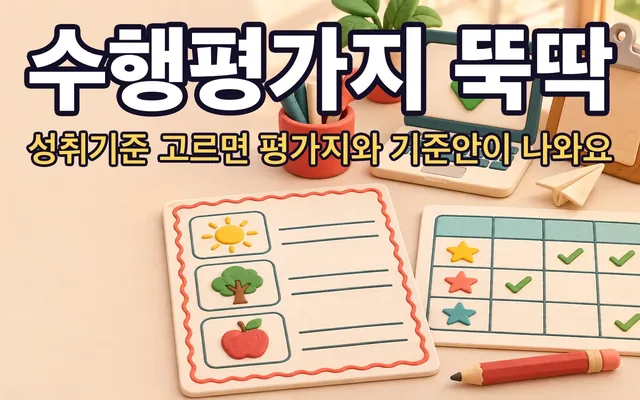
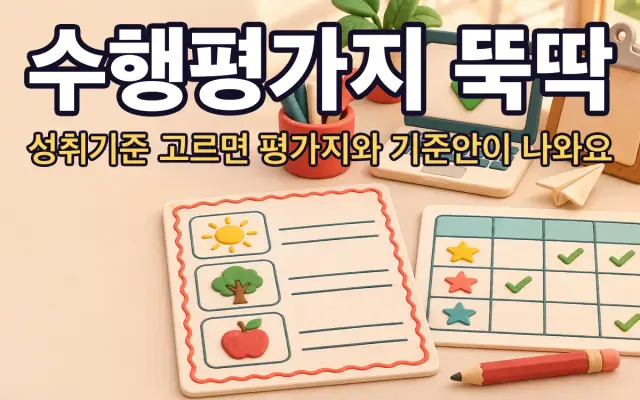
fix(listing): 세 버튼 번개 카드 이름 — 학교 망 필터 낱말 피하기
Claude-Session: https://claude.ai/code/session_01SkaQPnzSfQwP4ebqixHREo

diff --git a/src/data/projects.ts b/src/data/projects.ts
@@ -165,7 +165,7 @@ export const learningSites: LearningSite[] = [
   {
     slug: 'sebeoteun',
     added: '2026-11-25T05:10',
-    name: '세 버튼 번개 미니게임',
+    name: '세 버튼 번개 놀이',
     subject: '여러 과목',
     category: '미술·놀이',
     tags: ['여러 과목', '액션', '리듬', '학교 대항'],
